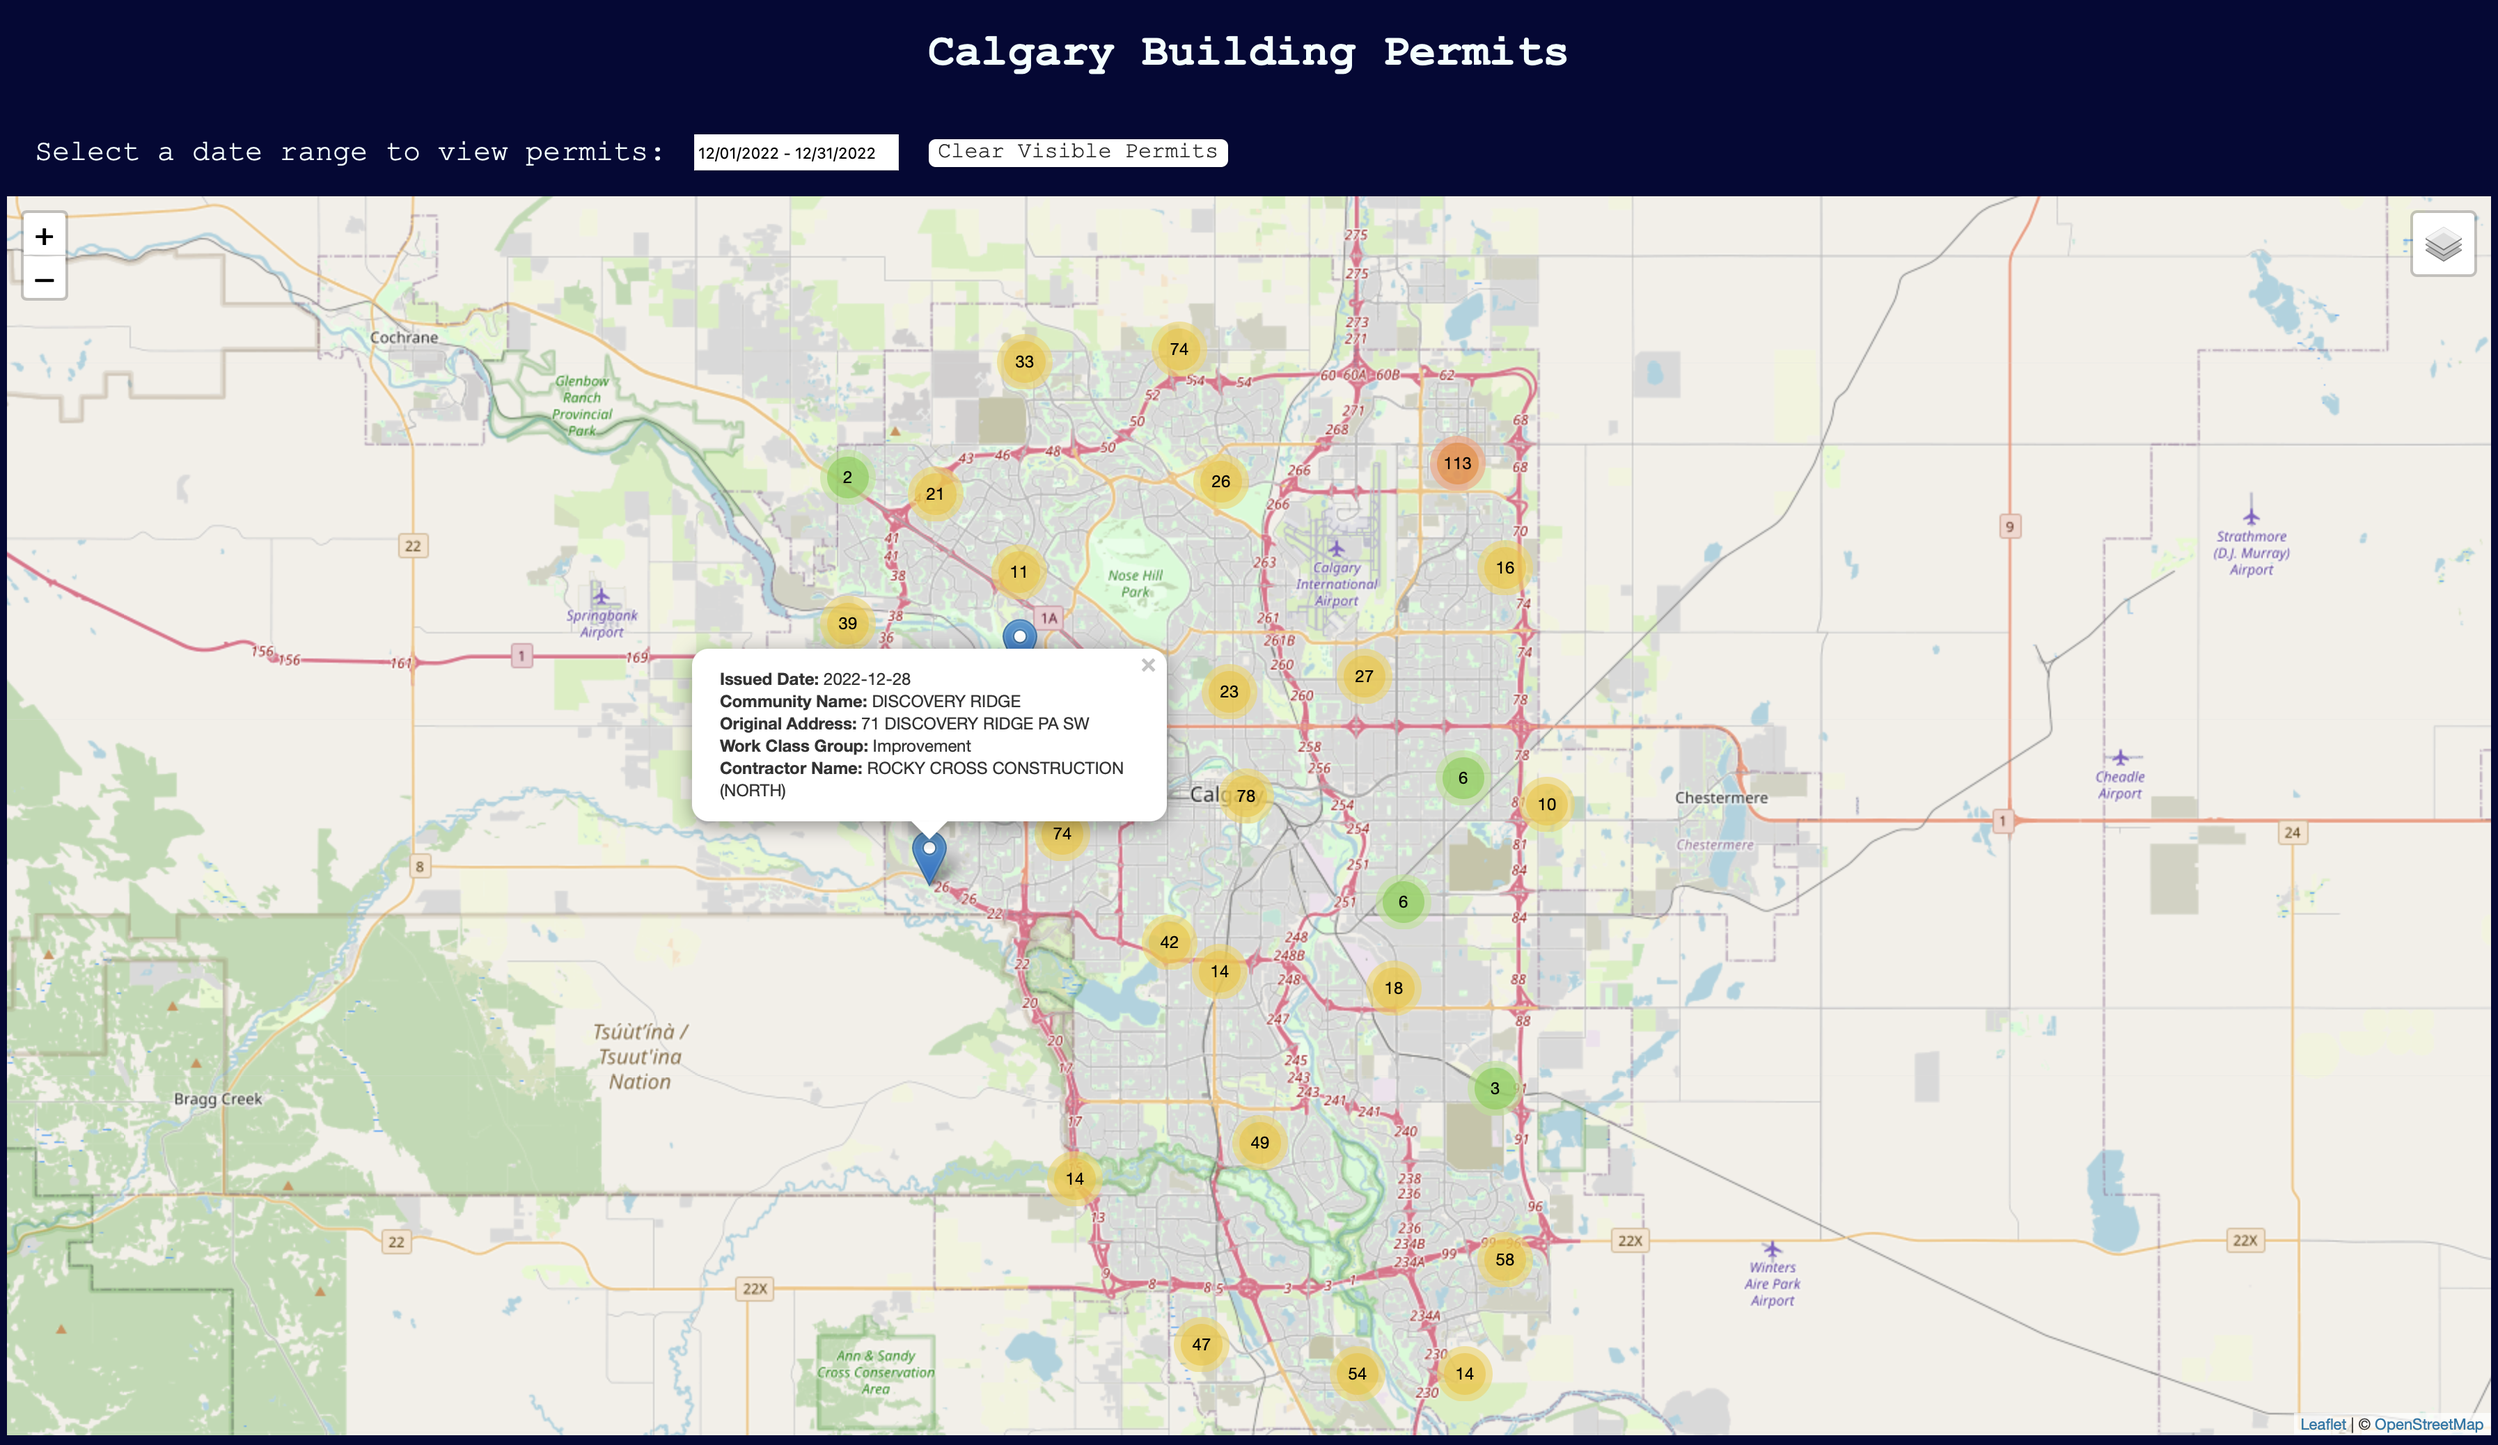
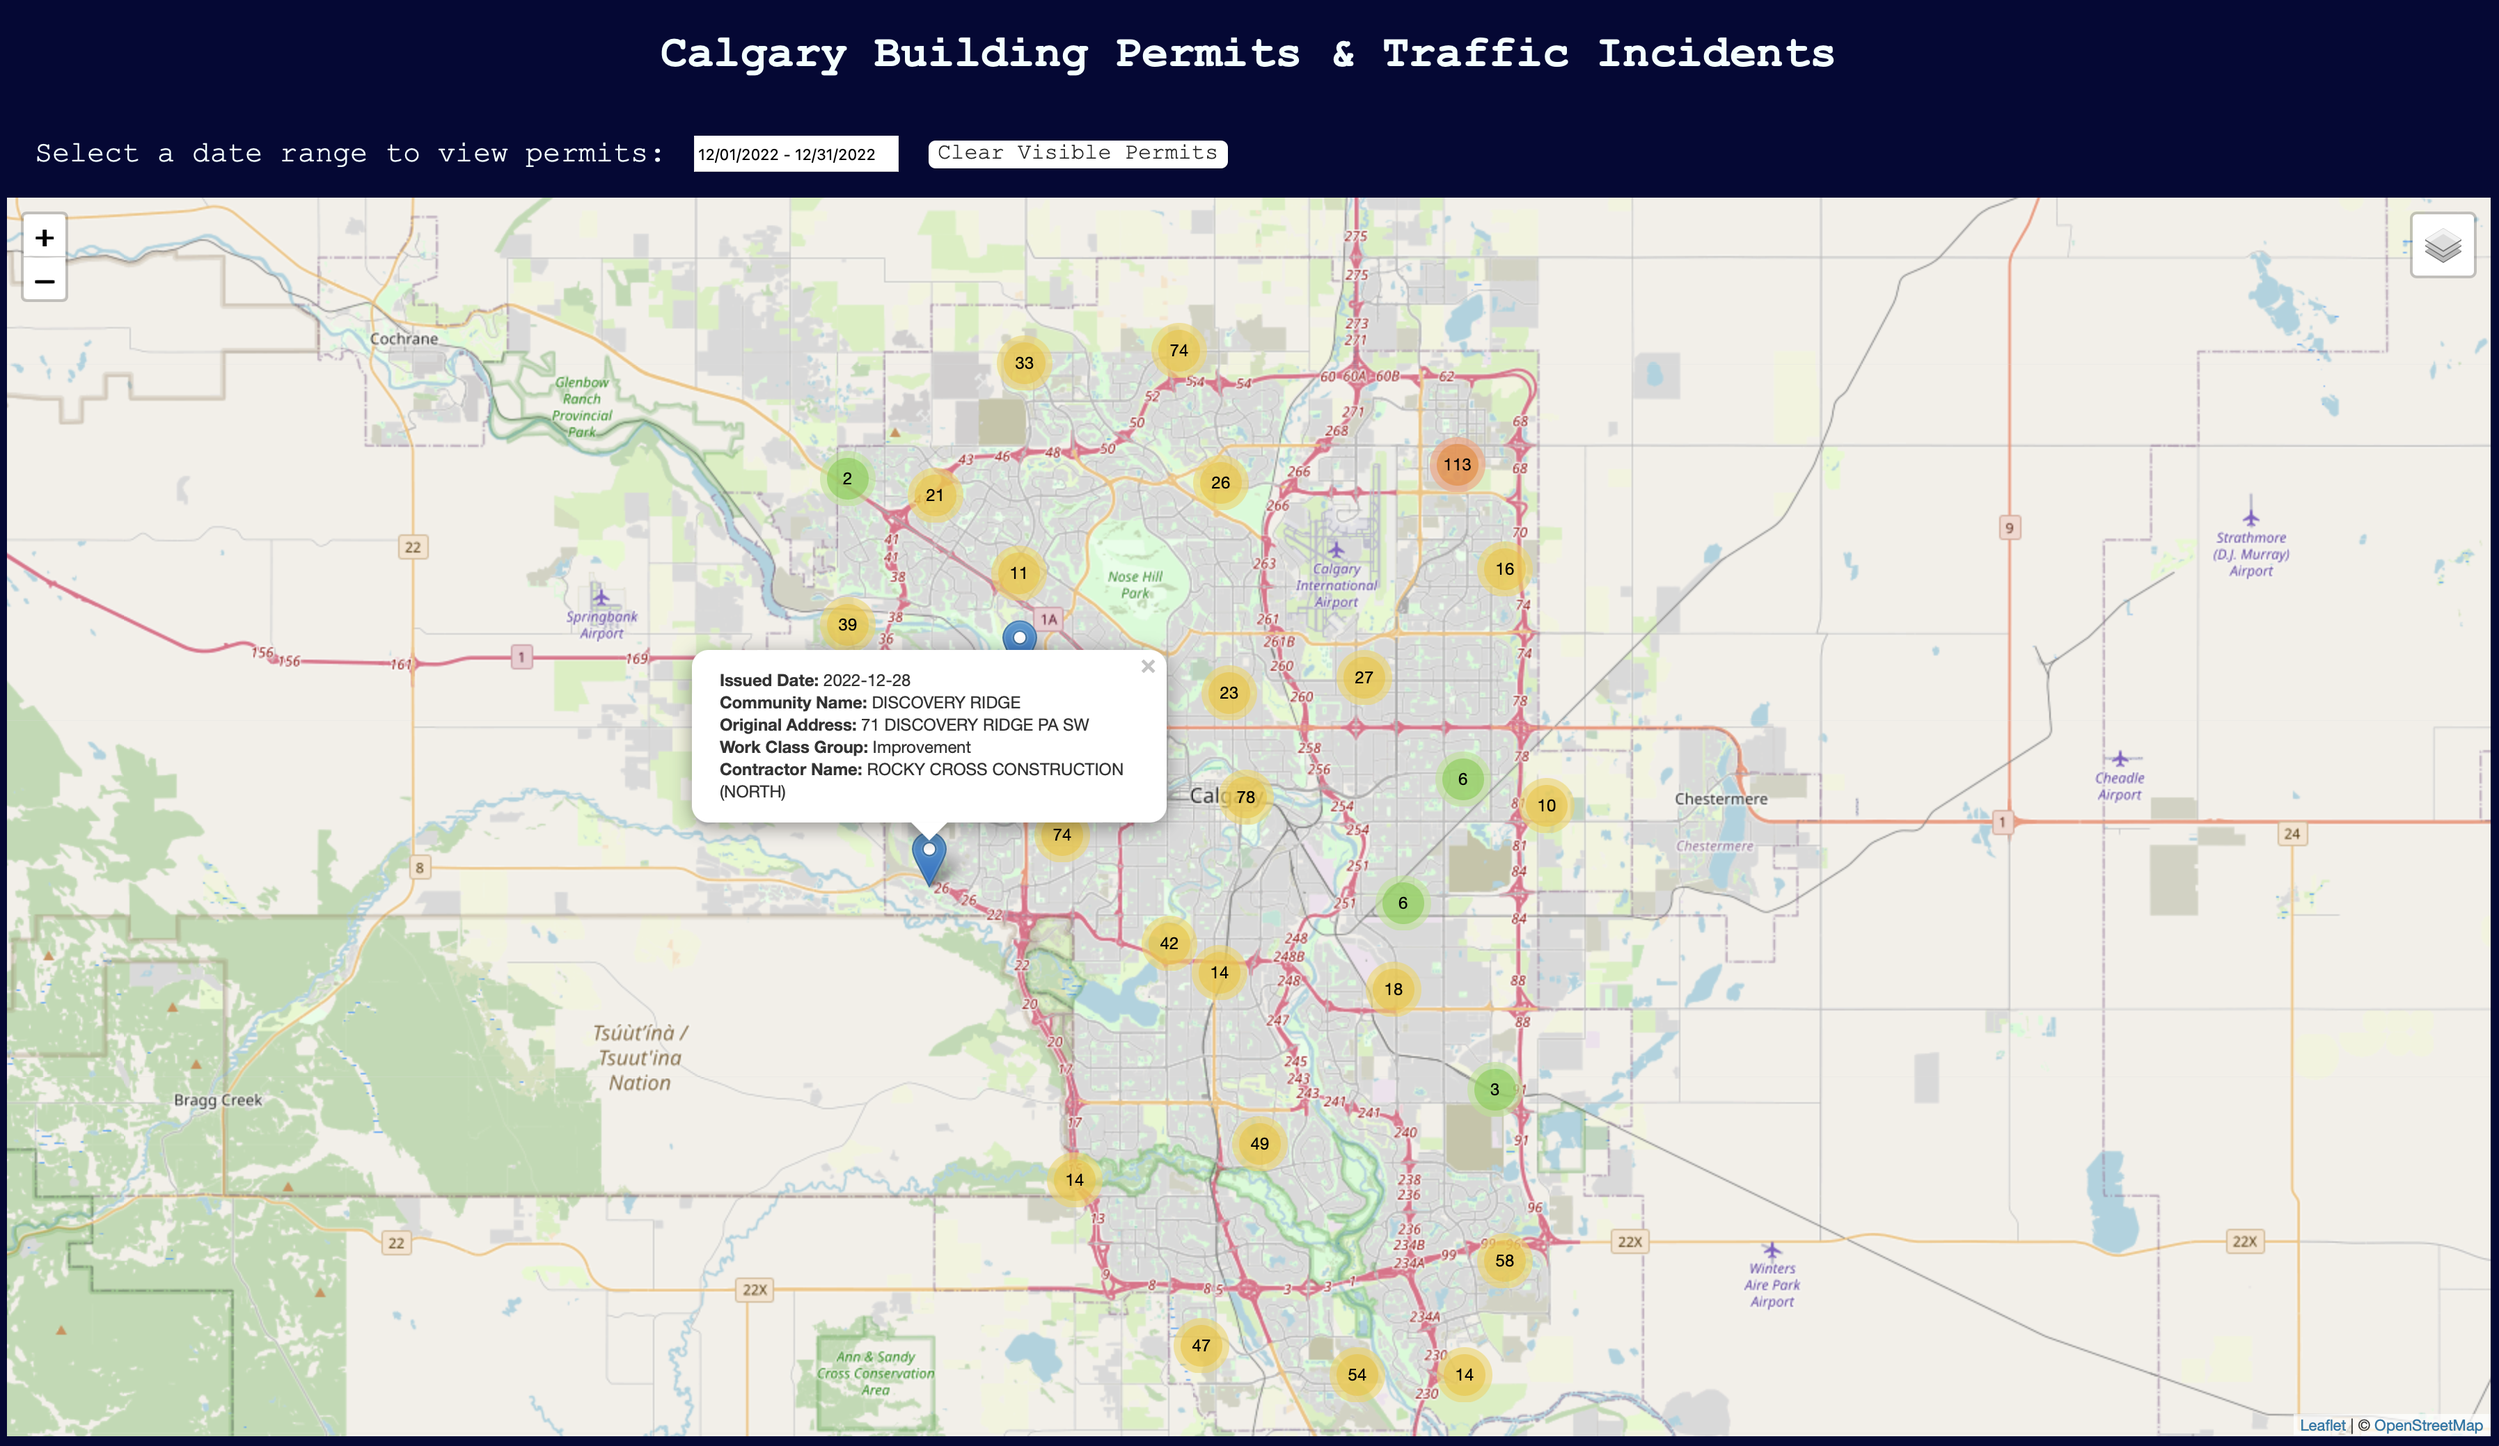
Update README.md

diff --git a/index.html b/index.html
@@ -1,7 +1,7 @@
 <!DOCTYPE html>
 <html>
 <head>
-    <title>Calgary Building Permits</title>
+    <title>Calgary Building Permits & Traffic Incidents</title>
     <meta name="viewport" content="width=device-width, initial-scale=1.0">
 
     <!-- Link the Leaflet js and css files files -->
@@ -27,7 +27,7 @@
 </head>
 <body>
     <div id="header">
-        <h1>Calgary Building Permits</h1>
+        <h1>Calgary Building Permits & Traffic Incidents</h1>
         <div id="search">
             <p>Select a date range to view permits:</p>
             <input type="text" name="daterange" value=""/>
